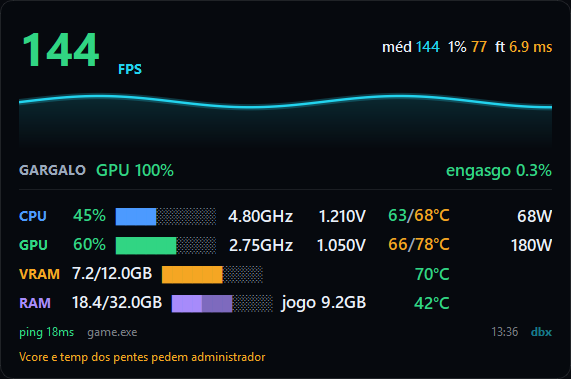
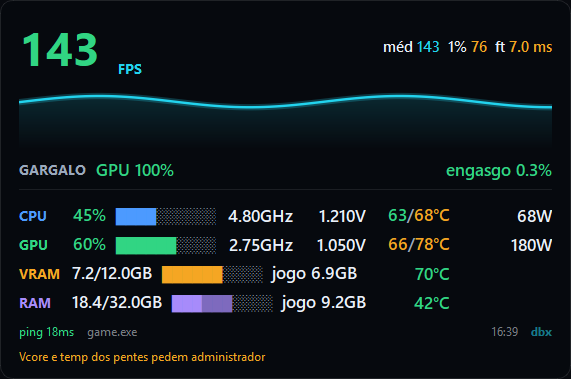
VRAM do jogo ao lado da VRAM total, e versao 3.2.0
O total de VRAM nao responde a pergunta que importa quando a memoria estoura:
quanto disso e' o JOGO. O resto pode ser o compositor da area de trabalho, o
navegador aberto atras, o proprio app, e num placar de 12 GB a diferenca entre
"o jogo pegou 11" e "o jogo pegou 6 e o Chrome levou o resto" muda o que se faz
a seguir.

platform/gpumem.py le' o contador `GPU Process Memory` por PDH, que e' o mesmo
caminho do Gerenciador de Tarefas: nao existe API simples de "VRAM deste pid"
fora disso, o LibreHardwareMonitor so' da' o total do adaptador e a NVML nao
serve nesta maquina nem responde por processo.

Detalhes que decidem se o numero sai certo:

- a instancia do contador e' `pid_1234_luid_..._phys_0` e o mesmo processo
  aparece em varias: uma por adaptador e segmento. A consulta usa curinga e
  SOMA: ler a primeira daria um parcial, e com GPU integrada mais dedicada daria
  justamente a errada;
- `Local Usage` (dedicada) e nao `Non Local` (memoria do sistema): a segunda so'
  cresce DEPOIS que a dedicada acabou, e somar as duas esconderia o instante em
  que o problema comecou;
- a struct leva 4 bytes de alinhamento explicitos entre CStatus e o valor, senao
  em 64 bits o ctypes le' deslocado e devolve lixo;
- a consulta fica aberta entre os ciclos: 0,01 ms por leitura contra alguns
  milissegundos se fosse reaberta, o jogo inteiro a 1 Hz.

Na tela segue a mesma regra da RAM: fatia destacada na propria barra e o numero
[…]

diff --git a/src/dbxstats/platform/gpumem.py b/src/dbxstats/platform/gpumem.py
@@ -1,0 +1,176 @@
+"""VRAM de um processo, pelo contador de desempenho do Windows.
+
+O total de VRAM ja' aparece no overlay, mas ele nao responde a pergunta que
+importa quando a memoria estoura: quanto disso e' o JOGO. O resto pode ser o
+compositor da area de trabalho, o navegador aberto atras, o proprio app — e num
+placar de 12 GB a diferenca entre "o jogo pegou 11" e "o jogo pegou 6 e o Chrome
+levou o resto" muda completamente o que se faz a seguir.
+
+O caminho e' o mesmo do Gerenciador de Tarefas: o contador `GPU Process Memory`,
+lido por PDH. Nao existe API simples de "VRAM deste pid" fora disso — o
+LibreHardwareMonitor da' o total do adaptador, e a NVML nao serve nesta maquina
+(a GPU e' AMD) nem responde por processo.
+
+A instancia do contador tem a forma `pid_1234_luid_0x..._phys_0`, e um mesmo
+processo aparece em varias delas — uma por adaptador e segmento. Por isso a
+consulta usa curinga e SOMA o que voltar: ler so' a primeira daria um numero
+parcial, e num sistema com GPU integrada mais dedicada daria justamente a
+errada.
+"""
+from __future__ import annotations
+
+import ctypes
+from ctypes import wintypes
+
+from .. import log
+
+_log = log.get("gpumem")
+
+pdh = ctypes.WinDLL("pdh", use_last_error=True)
+
+ERROR_SUCCESS = 0
+PDH_FMT_LARGE = 0x00000400
+"""Formata como inteiro de 64 bits. O contador e' em bytes e passa de 4 GB."""
+
+
+class PDH_FMT_COUNTERVALUE_ITEM_W(ctypes.Structure):
+    """Item devolvido por PdhGetFormattedCounterArrayW.
+
+    O `_pad` e' explicito de proposito: em 64 bits o `CStatus` de 4 bytes fica
+    seguido de 4 de alinhamento antes do valor de 8, e sem ele o ctypes leria o
+    numero deslocado — devolvendo lixo em vez de bytes.
+    """
+
+    _fields_ = [("szName", wintypes.LPWSTR),
+                ("CStatus", wintypes.DWORD),
+                ("_pad", ctypes.c_uint32),
+                ("largeValue", ctypes.c_longlong)]
+
+
+def _setup() -> None:
+    pdh.PdhOpenQueryW.argtypes = [wintypes.LPCWSTR, ctypes.c_void_p,
+                                  ctypes.POINTER(ctypes.c_void_p)]
+    pdh.PdhOpenQueryW.restype = ctypes.c_long
+    pdh.PdhAddEnglishCounterW.argtypes = [ctypes.c_void_p, wintypes.LPCWSTR,
+                                          ctypes.c_void_p,
+                                          ctypes.POINTER(ctypes.c_void_p)]
+    pdh.PdhAddEnglishCounterW.restype = ctypes.c_long
+    pdh.PdhCollectQueryData.argtypes = [ctypes.c_void_p]
+    pdh.PdhCollectQueryData.restype = ctypes.c_long
+    pdh.PdhGetFormattedCounterArrayW.argtypes = [
+        ctypes.c_void_p, wintypes.DWORD, ctypes.POINTER(wintypes.DWORD),
+        ctypes.POINTER(wintypes.DWORD), ctypes.c_void_p]
+    pdh.PdhGetFormattedCounterArrayW.restype = ctypes.c_long
+    pdh.PdhCloseQuery.argtypes = [ctypes.c_void_p]
+    pdh.PdhCloseQuery.restype = ctypes.c_long
+
+
+_setup()
+
+
+class ProcessVram:
+    """VRAM dedicada de um processo, com a consulta PDH presa entre os ciclos.
+
+    A consulta fica aberta porque abrir e fechar a cada leitura custa alguns
+    milissegundos e o laco roda a 1 Hz o jogo inteiro. Ela so' e' refeita quando
+    o pid muda — o curinga do caminho leva o pid dentro, entao nao da' para
+    reaproveitar entre jogos.
+    """
+
+    # `Local Usage` e' a VRAM dedicada da placa, que e' o numero que estoura e
+    # derruba o fps. `Non Local Usage` (memoria do sistema usada como VRAM) fica
+    # de fora: ela cresce justamente DEPOIS que a dedicada acabou, e mistura-la
+    # ao total esconderia o momento em que o problema comecou.
+    CONTADOR = r"\GPU Process Memory(pid_{pid}*)\Local Usage"
+
+    def __init__(self) -> None:
+        self._wanted = 0
+        """Escrito pela thread da interface, lido pela do coletor: so' um int."""
+        self._pid = 0
+        self._query = None
+        self._counter = None
+        self._quebrado = False
+        """Contador ausente nesta maquina; nao adianta tentar de novo."""
+
+    def follow(self, pid: int | None) -> None:
+        self._wanted = int(pid or 0)
+
+    def close(self) -> None:
+        if self._query is not None:
+            pdh.PdhCloseQuery(self._query)
+        self._query = None
+        self._counter = None
+        self._pid = 0
+
+    def _abrir(self, pid: int) -> bool:
+        self.close()
+        query = ctypes.c_void_p()
+        if pdh.PdhOpenQueryW(None, None, ctypes.byref(query)) != ERROR_SUCCESS:
+            return False
+        counter = ctypes.c_void_p()
+        caminho = self.CONTADOR.format(pid=pid)
+        if pdh.PdhAddEnglishCounterW(query, caminho, None,
+                                     ctypes.byref(counter)) != ERROR_SUCCESS:
+            pdh.PdhCloseQuery(query)
+            # Sem o contador nao ha' o que medir: ou o Windows e' antigo demais,
+            # ou o processo nao tocou na GPU ainda. O segundo caso se resolve
+            # sozinho na proxima leitura, entao nada de marcar como quebrado.
+            return False
+        self._query, self._counter, self._pid = query, counter, pid
+        return True
+
+    def read_mb(self) -> float | None:
+        """VRAM dedicada do processo agora, em MB. None quando nao da' para medir."""
+        if self._quebrado:
+            return None
+        pid = self._wanted
+        if not pid:
+            self.close()
+            return None
+        if pid != self._pid and not self._abrir(pid):
+            return None
+
+        try:
+            if pdh.PdhCollectQueryData(self._query) != ERROR_SUCCESS:
+                return None
+            tamanho = wintypes.DWORD(0)
+            quantos = wintypes.DWORD(0)
+            pdh.PdhGetFormattedCounterArrayW(self._counter, PDH_FMT_LARGE,
+                                             ctypes.byref(tamanho),
+                                             ctypes.byref(quantos), None)
+            if tamanho.value == 0:
+                # Processo sem nada na GPU: zero e' resposta, e nao ausencia.
+                return 0.0
+            buf = ctypes.create_string_buffer(tamanho.value)
+            if pdh.PdhGetFormattedCounterArrayW(self._counter, PDH_FMT_LARGE,
+                                                ctypes.byref(tamanho),
+                                                ctypes.byref(quantos),
+                                                buf) != ERROR_SUCCESS:
+                return None
+            itens = ctypes.cast(buf, ctypes.POINTER(PDH_FMT_COUNTERVALUE_ITEM_W))
+            total = 0
+            for i in range(quantos.value):
+                item = itens[i]
+                if item.CStatus == ERROR_SUCCESS:
+                    total += item.largeValue
+            return round(total / 1024 ** 2, 1)
+        except OSError as e:                                 # noqa: BLE001
+            _log.debug("leitura de VRAM do processo falhou: %s", e)
+            return None
+
+
+def disponivel() -> bool:
+    """O contador existe nesta maquina?
+
+    Serve para a interface nao oferecer uma metrica que nunca vai preencher.
+    """
+    query = ctypes.c_void_p()
+    if pdh.PdhOpenQueryW(None, None, ctypes.byref(query)) != ERROR_SUCCESS:
+        return False
+    try:
+        counter = ctypes.c_void_p()
+        caminho = r"\GPU Process Memory(*)\Local Usage"
+        return pdh.PdhAddEnglishCounterW(query, caminho, None,
+                                         ctypes.byref(counter)) == ERROR_SUCCESS
+    finally:
+        pdh.PdhCloseQuery(query)

diff --git a/tests/test_gpumem.py b/tests/test_gpumem.py
@@ -1,0 +1,95 @@
+"""VRAM por processo: o numero que diz se quem encheu a placa foi o jogo."""
+import os
+
+os.environ.setdefault("QT_QPA_PLATFORM", "offscreen")
+os.environ.setdefault("DBXSTATS_NO_FILE_LOG", "1")
+
+import ctypes  # noqa: E402
+
+from dbxstats.platform import gpumem  # noqa: E402
+
+
+def test_struct_tem_o_tamanho_que_o_windows_espera():
+    """Em 64 bits ha' 4 bytes de alinhamento entre CStatus e o valor. Sem eles o
+    ctypes le' o numero deslocado e devolve lixo em vez de bytes."""
+    assert ctypes.sizeof(gpumem.PDH_FMT_COUNTERVALUE_ITEM_W) == 24
+
+
+def test_caminho_do_contador_usa_curinga():
+    """Um processo aparece em varias instancias — uma por adaptador e segmento.
+    Ler so' a primeira daria um numero parcial."""
+    caminho = gpumem.ProcessVram.CONTADOR.format(pid=1234)
+    assert "pid_1234*" in caminho
+    assert caminho.endswith(r"\Local Usage")
+
+
+def test_mede_a_vram_dedicada_e_nao_a_compartilhada():
+    """`Non Local Usage` cresce DEPOIS que a dedicada acabou; somar as duas
+    esconderia o instante em que o problema comecou."""
+    assert "Non Local" not in gpumem.ProcessVram.CONTADOR
+
+
+def test_sem_pid_nao_devolve_numero():
+    """Zero seria mentira: nao ha' processo para medir."""
+    v = gpumem.ProcessVram()
+    v.follow(0)
+    assert v.read_mb() is None
+    v.follow(None)
+    assert v.read_mb() is None
+
+
+def test_pid_inexistente_nao_quebra():
+    v = gpumem.ProcessVram()
+    v.follow(999_999)
+    assert v.read_mb() is None
+    v.close()
+
+
+def test_fechar_duas_vezes_e_seguro():
+    """O coletor fecha no encerramento, e o jogo pode ter fechado antes."""
+    v = gpumem.ProcessVram()
+    v.close()
+    v.close()
+
+
+def test_mede_um_processo_de_verdade():
+    """Contra a maquina real: o que importa e' devolver numero plausivel.
+
+    O dwm.exe (compositor da area de trabalho) sempre tem VRAM enquanto houver
+    tela ligada, entao serve de alvo estavel.
+    """
+    import psutil
+
+    if not gpumem.disponivel():
+        return          # Windows sem o contador; nada a verificar
+
+    v = gpumem.ProcessVram()
+    try:
+        for p in psutil.process_iter(["pid", "name"]):
+            if (p.info["name"] or "").lower() != "dwm.exe":
+                continue
+            v.follow(p.info["pid"])
+            mb = v.read_mb()
+            if mb:
+                assert 0 < mb < 64_000        # placa nenhuma tem 64 GB dedicados
+                return
+    finally:
+        v.close()
+
+
+def test_consulta_e_reaproveitada_entre_leituras():
+    """Reabrir a consulta a cada ciclo custaria milissegundos o jogo inteiro."""
+    import psutil
+
+    if not gpumem.disponivel():
+        return
+    v = gpumem.ProcessVram()
+    try:
+        pid = next(iter(psutil.pids()))
+        v.follow(pid)
+        v.read_mb()
+        primeira = v._query
+        v.read_mb()
+        assert v._query is primeira
+    finally:
+        v.close()

diff --git a/src/dbxstats/ui/overlay.py b/src/dbxstats/ui/overlay.py
@@ -88,7 +88,7 @@ Mono no lugar da Consolas, quando ela existe na maquina) sem deixar de rebaixar
 quem realmente pediu um painel grande demais: na escala 1.6 ele ainda desce."""
 
 _CORTE_COMPACTO = frozenset({
-    "volts", "ram", "temps_mem", "jogo_ram", "mem_clock",
+    "volts", "ram", "temps_mem", "jogo_ram", "jogo_vram", "mem_clock",
     "mem_ctrl", "teto_watts", "ping", "clock",
 })
 """O que sai no modo compacto: sobra FPS, traco, limite, CPU, GPU e VRAM."""
@@ -717,11 +717,26 @@ class GameOverlay(QWidget):
         volts_mem = "volts" in metrics
         if "vram" in self._dados:
             usado, total = _gb(g.get("vram_used")), _gb(g.get("vram_total"))
+            # A VRAM do jogo segue a mesma regra da RAM: so' vale a do processo
+            # que o motor de quadros esta' medindo AGORA. Comparar o pid evita o
+            # numero ficar congelado no ultimo jogo por um ciclo inteiro do
+            # coletor depois que ele fecha — valor parado mente.
+            pid_v = stream.pid if stream is not None else 0
+            jogo_v = (d.get("game_vram")
+                      if "jogo_vram" in metrics and d.get("game_pid") == pid_v and pid_v
+                      else None)
             par = f"{usado:.1f}/{total:.1f}GB" if total else ""
-            barra = _barra(usado, total, theme.DISK)
+            barra = _barra(usado, total, theme.DISK,
+                           destaque=(jogo_v or 0) / 1024.0 if jogo_v else None)
             if volts_mem and g.get("vram_volts"):
                 barra = f"{barra}&nbsp;&nbsp;{_volt(g['vram_volts'])}"
-            self._set("vram", CARGA, f"{par}&nbsp;&nbsp;{barra}" if par else "")
+            celula = f"{par}&nbsp;&nbsp;{barra}" if par else ""
+            # O numero do jogo fica colado na barra, e nao na ponta direita: ele
+            # e' uma FATIA do total que a barra desenha, e leitura que se compara
+            # precisa ficar ao lado do que se compara com ela.
+            if jogo_v:
+                celula = f"{celula}&nbsp;&nbsp;jogo {jogo_v / 1024:.1f}GB".strip()
+            self._set("vram", CARGA, celula)
             self._set("vram", TEMP, "")
             if "temps_mem" in metrics and g.get("temp_vram") is not None:
                 self._set("vram", TEMP, units.temp(g["temp_vram"]).replace(" ", ""),

diff --git a/src/dbxstats/sensors/collector.py b/src/dbxstats/sensors/collector.py
@@ -13,6 +13,7 @@ import time
 import psutil
 
 from .. import log
+from ..platform import gpumem
 from ..core.series import Ema
 
 _log = log.get("collector")
@@ -43,6 +44,8 @@ class Collector:
         self._gpu_watts_ema = Ema(0.35)
         self._gpu_wmi: dict | None = None
         self._game_ram = _GameMemory()
+        self._game_vram = gpumem.ProcessVram()
+        """VRAM do mesmo processo; ver platform/gpumem.py."""
         self._static = _static_info()
 
     # ── ciclo de vida ────────────────────────────────────────────────────────
@@ -63,6 +66,7 @@ class Collector:
     def set_game_pid(self, pid: int | None) -> None:
         """Diz de qual processo medir a RAM. Zero (ou None) desliga a medida."""
         self._game_ram.follow(pid)
+        self._game_vram.follow(pid)
 
     def snapshot(self) -> dict:
         with self._lock:
@@ -179,6 +183,12 @@ class Collector:
         # Sem jogo, as chaves nao existem — o card some inteiro em vez de mostrar
         # um zero que se parece com "o jogo nao usa RAM".
         data.update(self._game_ram.read() or {})
+        # So' publica com o jogo identificado: sem pid, o numero seria de
+        # ninguem, e a linha do overlay apareceria zerada sem explicacao.
+        if data.get("game_pid"):
+            vram_jogo = self._game_vram.read_mb()
+            if vram_jogo is not None:
+                data["game_vram"] = vram_jogo
         return data
 
     def _collect_gpu(self, lhm: dict) -> dict | None:

diff --git a/src/dbxstats/ui/settings.py b/src/dbxstats/ui/settings.py
@@ -110,6 +110,7 @@ _EXPLICACOES = {
     "jogo_ram": "Toda a memória que o jogo reservou para si, esteja ela na RAM "
                 "física ou não. Um número só: o par com o working set punha "
                 "dois valores sem rótulo na mesma célula e nao se explicava.",
+    "jogo_vram": "Quanto da VRAM é do jogo, e não do resto. O total sozinho não diz se quem encheu a placa foi o jogo ou o navegador aberto atrás — e a resposta muda o que se faz a seguir.",
     "mem_clock": "Clock das memórias.",
     "teto_watts": "Limite de potência da placa, ao lado do consumo. Consumo "
                   "colado no teto explica clock abaixo do esperado.",

diff --git a/scripts/smoke_ui.py b/scripts/smoke_ui.py
@@ -54,6 +54,7 @@ def fake_snapshot(i: int) -> dict:
                          "model": "G.Skill F5-6000 (#3)"}],
         "game_pid": 4242, "game_name": "game.exe",
         "game_ram_private": 9400.0, "game_ram_wset": 8100.0,
+        "game_vram": 7100.0,
         "swap_used": 2.1, "swap_total": 8.0, "swap_pct": 26.0,
         "disk_used": 780.0, "disk_total": 1863.0, "disk_pct": 42.0,
         "disk_r": 1.4e7, "disk_w": 4.2e6,

diff --git a/src/dbxstats/config.py b/src/dbxstats/config.py
@@ -33,6 +33,7 @@ OVERLAY_METRICS = [
     ("temps_mem", "Temperatura das memórias"),
     ("mem_ctrl", "Uso da banda de VRAM"),
     ("jogo_ram", "RAM do jogo"),
+    ("jogo_vram", "VRAM do jogo"),
     ("mem_clock", "Clock das memórias"), ("teto_watts", "Limite de potência"),
     ("ping", "Ping"), ("clock", "Relógio"),
 ]

diff --git a/src/dbxstats/__init__.py b/src/dbxstats/__init__.py
@@ -1,4 +1,4 @@
 """DBX Stats — monitor de hardware e desempenho em jogos para Windows."""
 
-__version__ = "3.1.0"
+__version__ = "3.2.0"
 __app_name__ = "DBX Stats"
